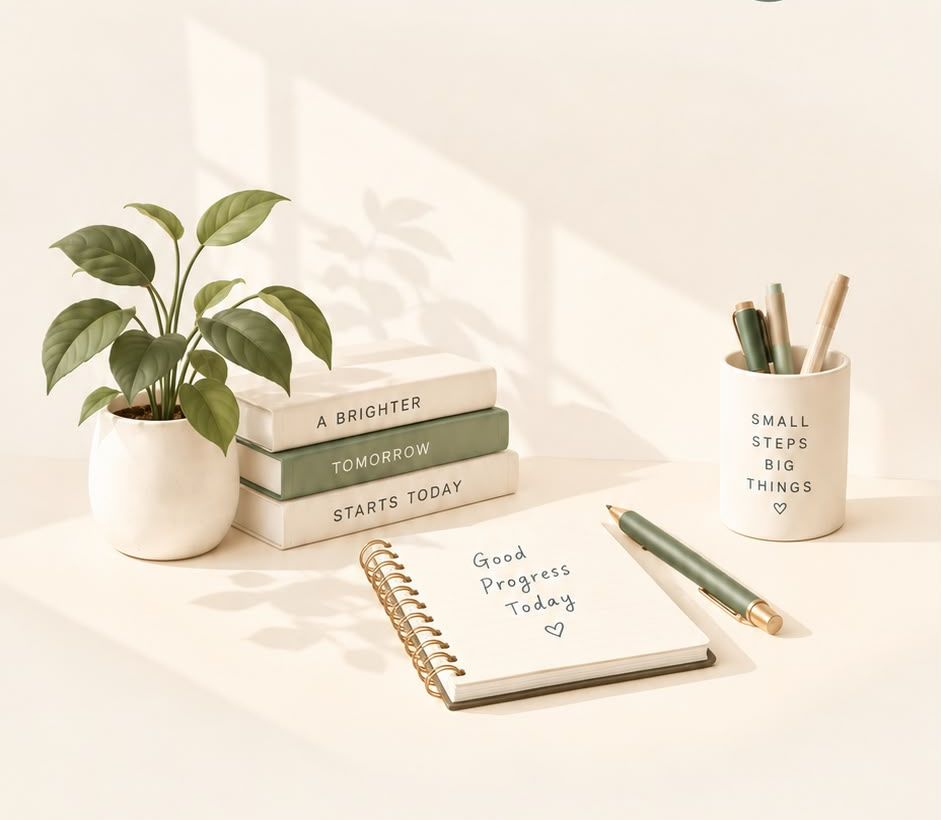
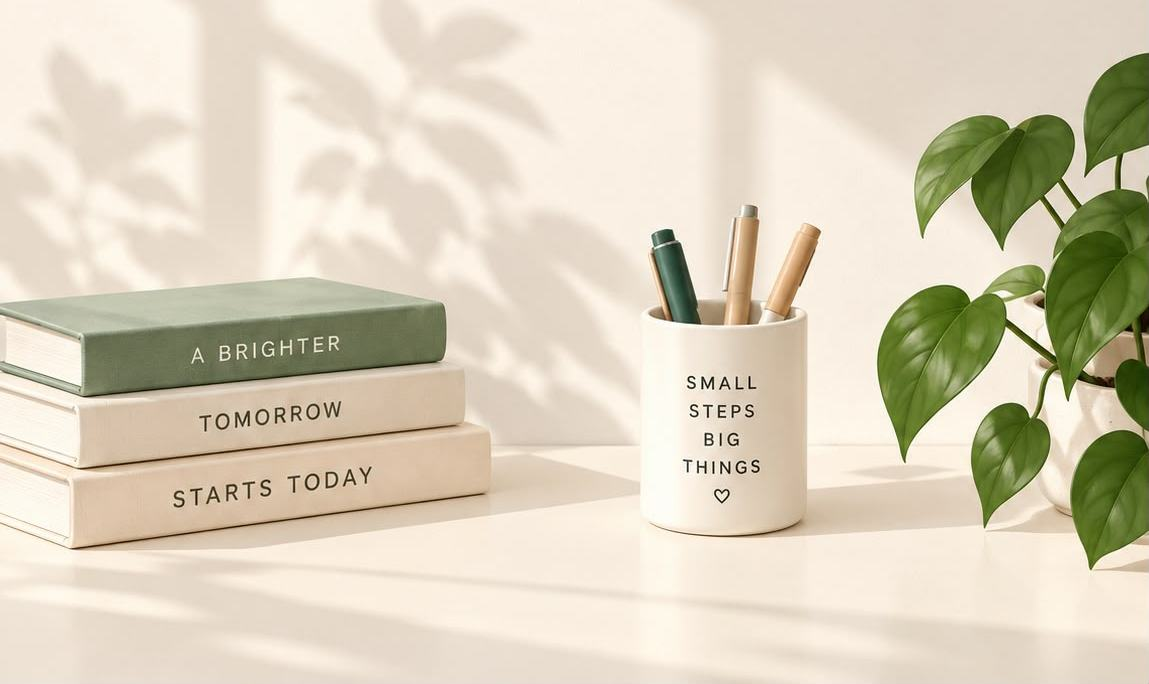
Use the supplied desk as the homework screen's background
The picture from the drawings rather than the one the app had been carrying:
books on the left, the cup in the middle, the plant on the right.

It is portrait and mostly wall — the things on the desk sit in its bottom
half, and only that half is ever on screen — so only that half is shipped,
cropped from halfway down. That keeps the top of the plant and still leaves a
band of plain wall for the fade to work on. The crop is 1.68 times as wide as
it is tall, so at full width it stands 59.5vw high, and --desk-band follows.

It now stands on the tab bar rather than running under it. Anchored the old
way the books and the cup had their feet cut off by the tabs; anchored to the
picture's own foot, it is the wall above the desk that goes when a screen is
too short to take all of it.

Kept to 54KB, under the 60KB the speed tests hold the build to. The rebuild
script tries four JPEG qualities and takes the best one that still fits,
rather than guessing at a number.

279 assertions across ten suites.

diff --git a/styles.css b/styles.css
@@ -31,10 +31,12 @@
 
   --gutter:     20px;
   --tabbar-h:   62px;
-  /* How much of the desk shows at the foot of the homework screen. Off the
-     width, since that sets how big the things on it look, but never more
-     than a share of a short screen. */
-  --desk-band:  min(62vw, 46vh);
+  /* How much of the desk shows at the foot of the homework screen. The
+     picture is 1.68 times as wide as it is tall, so at full width it stands
+     59.5vw high — measured off the width, because that is what sets how big
+     the books and the cup look. Capped against the height so a short screen
+     is not all desk; the cap crops rather than shrinking them. */
+  --desk-band:  min(59.5vw, 34vh);
 
   color-scheme: light;
 }
@@ -393,7 +395,7 @@ button { border: 0; background: none; cursor: pointer; }
      of it — the same band, off the same figure, so the two cannot drift apart
      on a screen shaped differently from a phone. */
   min-height: calc(100dvh - env(safe-area-inset-top) - env(safe-area-inset-bottom)
-                   - 134px - var(--desk-band));
+                   - 134px - var(--tabbar-h) - var(--desk-band));
   padding-bottom: 22px;
 }
 
@@ -433,7 +435,7 @@ button { border: 0; background: none; cursor: pointer; }
   position: fixed;
   left: 0;
   right: 0;
-  bottom: 0;
+  bottom: calc(var(--tabbar-h) + env(safe-area-inset-bottom));
   z-index: 0;
   width: 100%;
   /* A band of the photograph rather than the whole of it, so that what shows
@@ -444,7 +446,10 @@ button { border: 0; background: none; cursor: pointer; }
      to know how much room to leave. */
   height: var(--desk-band);
   object-fit: cover;
-  object-position: 50% 30%;
+  /* Anchored to the foot of the picture: the books, the cup and the plant
+     stand on its bottom edge, and it is the wall above them that gets cut
+     when a screen is too short. */
+  object-position: 50% 100%;
   pointer-events: none;
   opacity: 0;
   transition: opacity .45s ease;

diff --git a/sw.js b/sw.js
@@ -2,7 +2,7 @@
 
 // Bump this whenever the shell changes shape: it drops every older cache on
 // activate, so a page can never be served new markup with stale script.
-const CACHE = 'homework-v19';
+const CACHE = 'homework-v20';
 
 // Only what the app needs to run. The 512px icon is for the installer and the
 // splash screen, which nobody reaches offline, so it is fetched if it is ever

diff --git a/index.html b/index.html
@@ -65,7 +65,7 @@
     </header>
     <div id="home-list" class="list"></div>
     <!-- The desk the homework sits on, full list or empty. -->
-    <img id="desk" class="desk-art" src="art/desk.jpg" alt="" width="941" height="820"
+    <img id="desk" class="desk-art" src="art/desk.jpg" alt="" width="1149" height="684"
          decoding="async" draggable="false" />
   </section>
 

diff --git a/README.md b/README.md
@@ -66,15 +66,23 @@ subject it had rather than losing it.
 The homework screen sits on a desk, whether there is homework on it or not. The picture is
 fixed to the foot of the screen and the list scrolls over it, so it reads as the room the
 app is in rather than as one more thing in the column. Its top fades into the paper, so the
-photograph never ends on an edge, and it runs on behind the tab bar rather than stopping at
-it.
+photograph never ends on an edge, and it stands **on** the tab bar rather than running
+under it, so the books and the cup are whole instead of having their feet cut off.
+
+The photograph as supplied is portrait and mostly wall — the books, the cup and the plant
+sit in its bottom half, and only that half is ever on screen. So only that half is shipped:
+cropped from halfway down, which keeps the top of the plant and still leaves a band of plain
+wall for the fade to work on. That crop is 1.68 times as wide as it is tall, so at full
+width it stands 59.5vw high.
 
 How much of it shows is one figure, `--desk-band`, and both the picture and the cleared
 screen are measured from it — otherwise the two drift apart on a screen shaped differently
-from a phone. The band is set against the **width**, because that is what decides how big
-the things on the desk look, and capped against the height so a short screen is not all
-desk. `object-fit: cover` then picks the part of the photograph that fills it: the shelf of
-books, the cup and the plant, with the foreground below the fold.
+from a phone, which is exactly what happened when the picture was measured off the width
+and the space left for the sentence off the height: they collided on a 540-wide screen. The
+band is set against the **width**, because that is what decides how big the things on the
+desk look, and capped against the height so a short screen is not all desk. The cap crops
+rather than shrinking them: `object-position: 50% 100%` anchors the picture to its own foot,
+so it is the wall above the desk that goes.
 
 The picture is shown only once it has decoded. Half a photograph drawn top-down looks like
 something has gone wrong; nothing, and then all of it, does not.
@@ -82,6 +90,10 @@ something has gone wrong; nothing, and then all of it, does not.
 It used to be something the empty state carried, fetched quietly at idle so it would be in
 hand the moment the last piece of homework was ticked off. Now that it is part of the
 screen it loads with the page, and that warming step is gone.
+
+It is kept under 60KB, which is a promise the speed tests hold the build to. Rebuild it
+from a fresh photograph with `scratchpad/new-desk.js`, which crops, resizes, and then picks
+the highest JPEG quality that still comes in under the limit rather than guessing at one.
 
 ## Timetable
 
